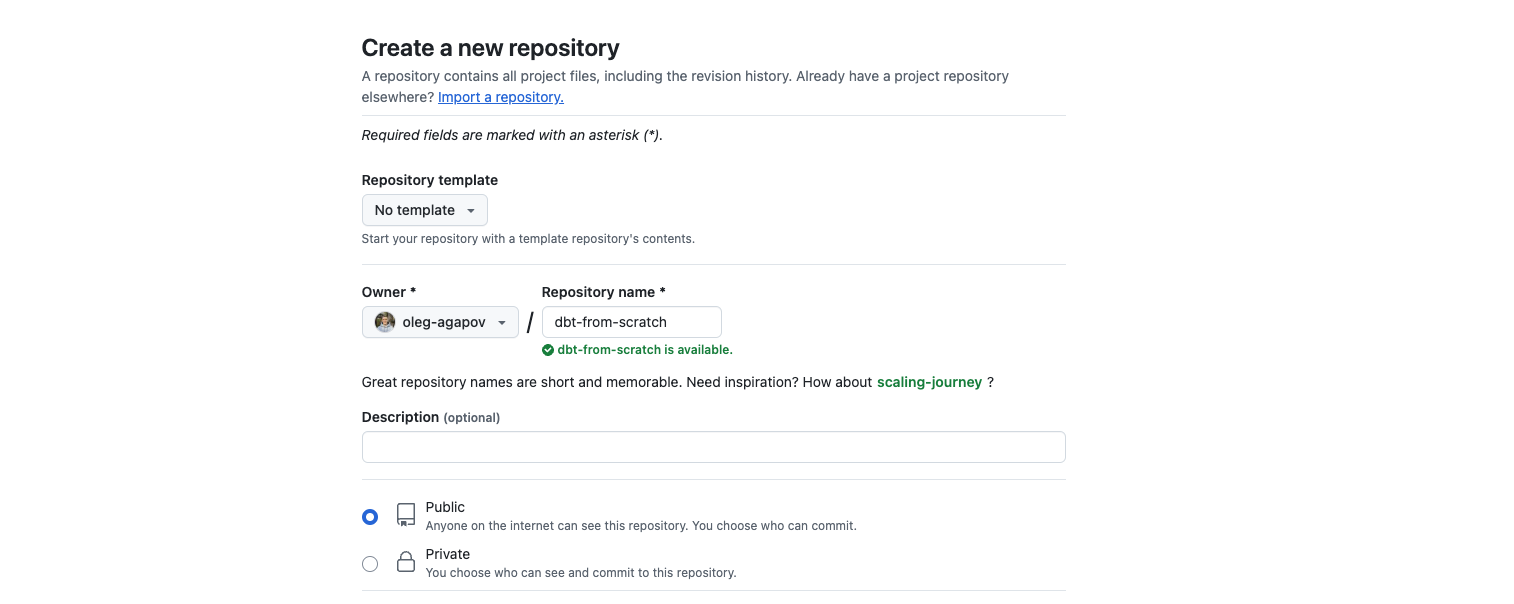
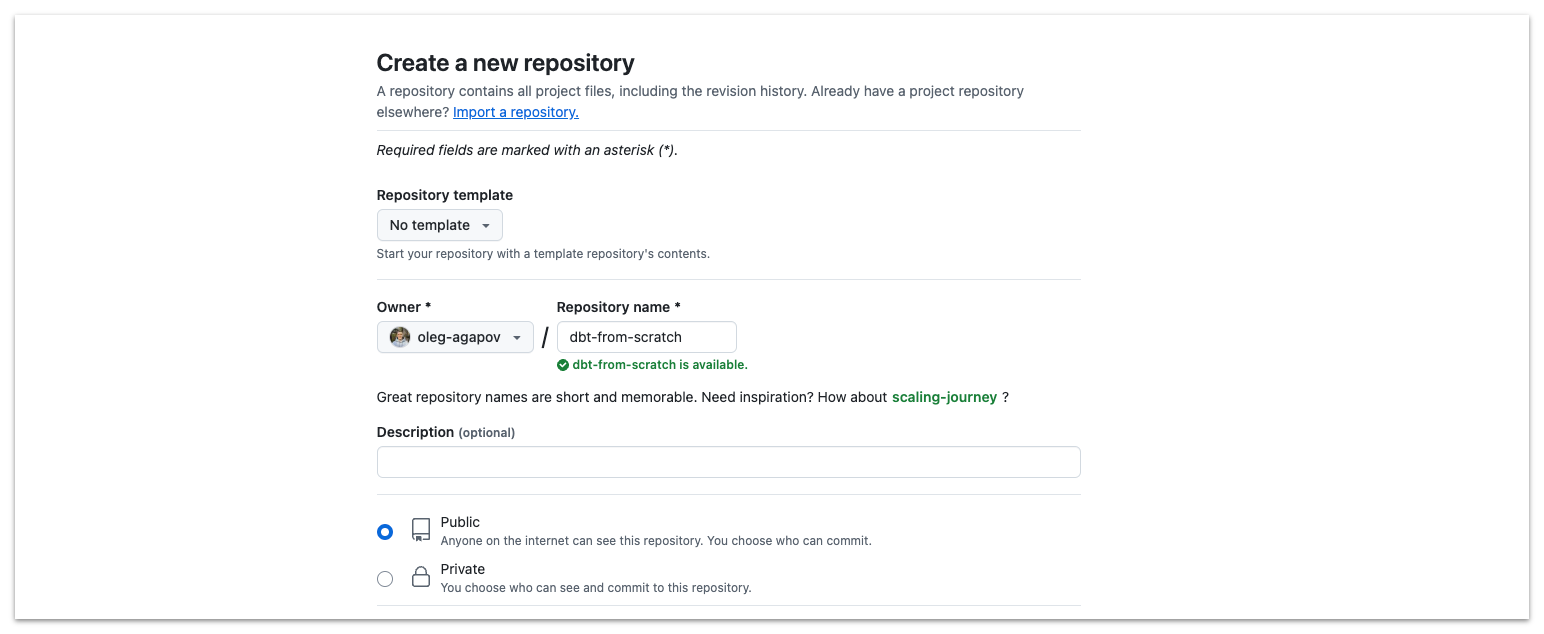
Fix images

diff --git a/practice/practice-1.md b/practice/practice-1.md
@@ -8,13 +8,13 @@ In this task we will prepare our development environment, install dbt with the a
 
 First you need to create a repository for your on GitHub. You can name it `dbt-from-scratch` or any other name you like. Make it Public, add a README and `.gitignore` file for Python.
 
-<img src="./img/1-1-create-repo.png" style="box-shadow: 1px 1px 4px 1px; border-radius: 2px;">
+![Create repo](./img/1-1-create-repo.png)
 
 You can clone the repository to your local machine using `git clone` command.
 
 Alternatively, you can use GitHub Codespaces to create a new environment directly in the browser. Just click on the `Code` button and select `Create codespace on main`.
 
-<img src="./img/1-2-open-codespaces.png" style="box-shadow: 1px 1px 4px 1px; border-radius: 2px;">
+![Open Codespaces](./img/1-2-open-codespaces.png)
 
 Next step is to prepare Python environment. If you work locally on your machine, you can create a virtual environment with:
 
